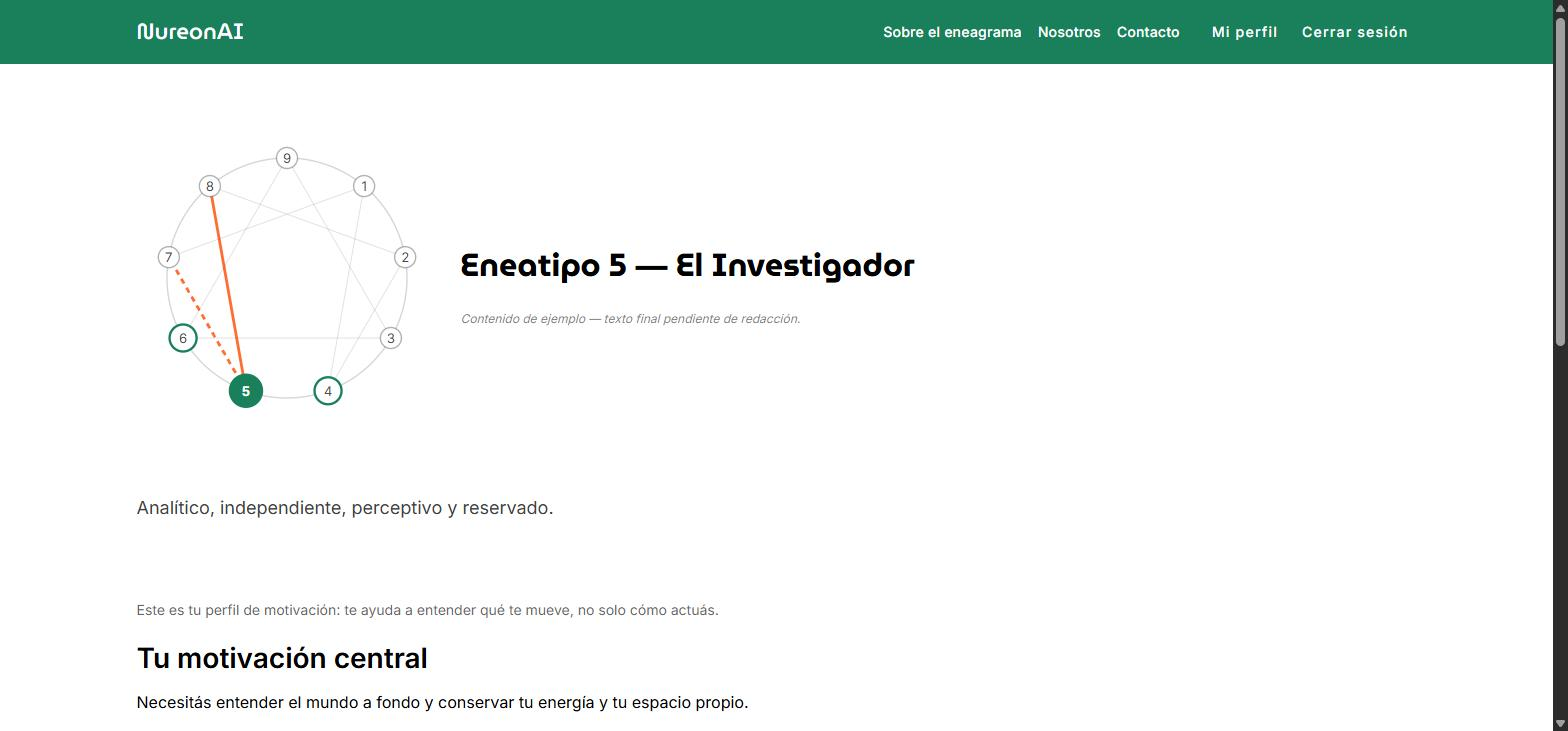
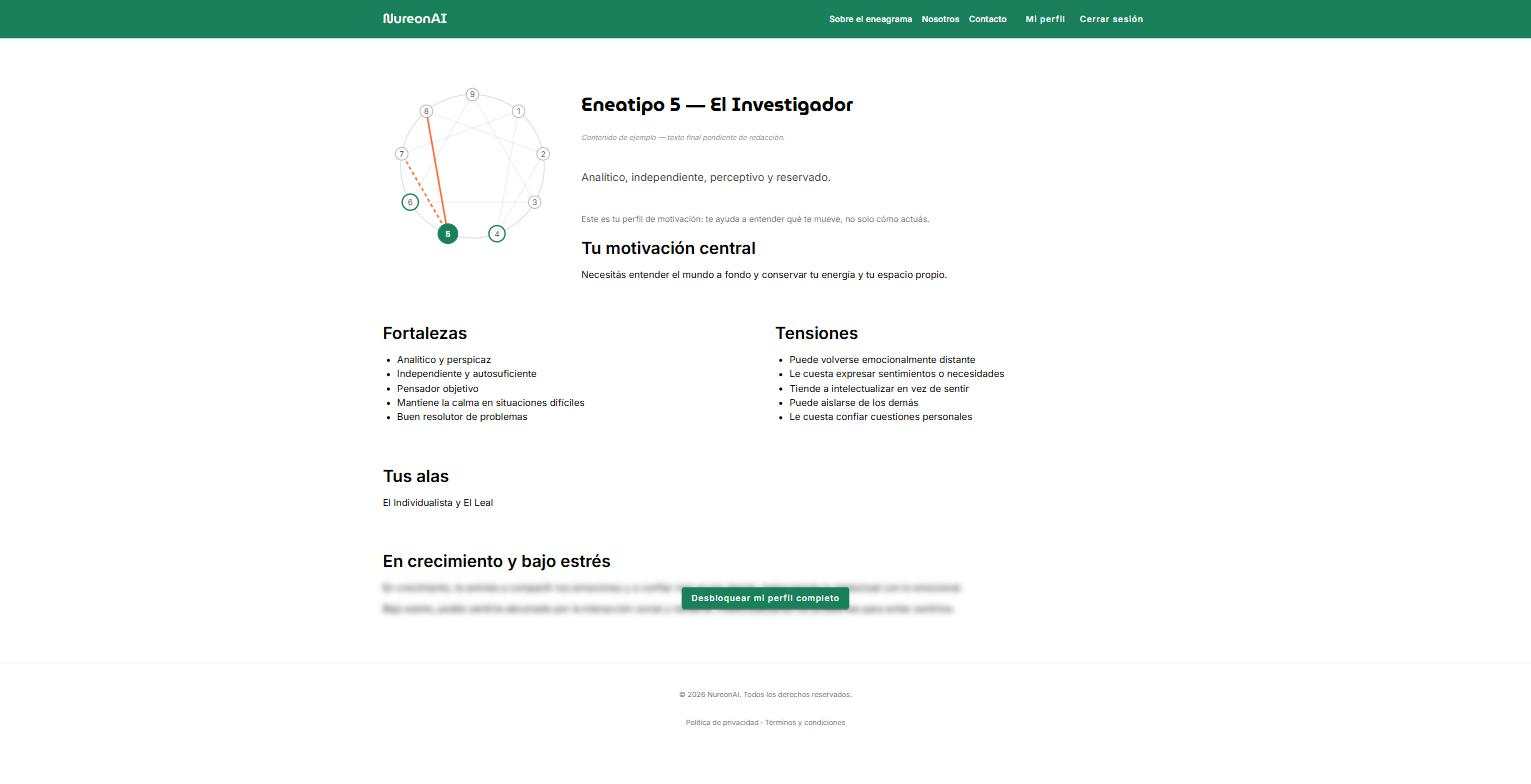
Update Stage 10 docs and recapture affected screenshots
mvp-status.md and click-budget.md now reflect what this stage closed;
browser-check.md documents the build:demo walkthrough. Recaptured 04/06
(desktop) for the new test/resultados layouts and added 10-13 for the
four screens that used to be placeholders. 05/07 (mobile) are still the
Stage 9 captures — Chrome DevTools' device toolbar stopped responding
reliably partway through this session, noted in browser-check.md.

diff --git a/frontend/nureon/docs/mvp-status.md b/frontend/nureon/docs/mvp-status.md
@@ -1,14 +1,18 @@
-# Qué está vivo (Etapa 9)
+# Qué está vivo (actualizado en Etapa 10)
 
 Estado real de cada pantalla al cierre del rediseño visual: qué pega contra `MockApiService`
 (datos en memoria + `localStorage` del navegador, nada persiste en un servidor) y qué contra un
-backend real. Ver `HttpApiService` (`core/services/http-api.service.ts`): **los catorce métodos
+backend real. Ver `HttpApiService` (`core/services/http-api.service.ts`): **los quince métodos
 de `ApiService` están 100% sin implementar** — cada uno tira
 `Error: <método>() is not implemented yet — backend integration is a later stage` a propósito.
 `environment.ts` (producción) tiene `useMockApi: false` apuntando a `https://api.nureon.ai`
 (no existe), así que **el build de producción de hoy no puede completar ningún flujo
 interactivo** — solo sirve para validar SSR/prerender de las rutas públicas estáticas
-(ver `browser-check.md`, punto 1). Todo lo que sigue corre contra `ng serve` + `MockApiService`.
+(ver `browser-check.md`).
+
+**Etapa 10 agrega `environment.demo.ts` (`npm run build:demo`)**: mismo build optimizado, pero
+`useMockApi: true`, así que sí completa el recorrido entero — es lo que se sube a S3 para mostrar
+el producto sin depender de un backend real ni de `ng serve`.
 
 ## Pantalla por pantalla
 
@@ -17,8 +21,10 @@ interactivo** — solo sirve para validar SSR/prerender de las rutas públicas e
 
 ### Registro (`/registro`) — CU001, RF01
 `AuthService.register()` → `MockApiService.register()`. Guarda el usuario en el estado mock y
-en `localStorage` (`nureon_mock_auth_user`) para sobrevivir un reload. **Real backend: 0%** —
-sin Cognito, sin validación de servidor, sin persistencia en RDS.
+en `localStorage` (`nureon_mock_auth_user`) para sobrevivir un reload. La confirmación manda
+directo a `/test` (Etapa 10 — antes mandaba a `/inicio`, lo que rompía el presupuesto de
+`docs/click-budget.md`; ver ese doc). **Real backend: 0%** — sin Cognito, sin validación de
+servidor, sin persistencia en RDS.
 
 ### Ingresar (`/ingresar`) — CU002, RF02, RNF09
 `AuthService.login()` → `MockApiService.login()`, misma persistencia que registro. Los botones
@@ -26,60 +32,109 @@ sin Cognito, sin validación de servidor, sin persistencia en RDS.
 propio HTML como `Ranura RNF09: dibujados pero inertes hasta que Cognito exista`. **Real backend:
 0%.**
 
-### `/inicio`
-Sigue siendo el placeholder de la Etapa 2 ("Ruta en construcción"). Nunca se conectó — el tramo
-`/inicio` → primera pregunta del test quedó pendiente desde `docs/click-budget.md` (Etapas 4/5) y
-sigue así. Hoy se llega al test navegando directo a `/test`, no hay CTA en `/inicio`.
+### `/inicio` — Etapa 10, RF03
+Ya no es el placeholder de la Etapa 2 — es el punto de partida real de la sesión. Lee
+`getLatestAttempt(userId)` y decide la acción primaria según el estado:
+
+- Sin intentos → "Iniciar test".
+- Intento en curso → "Retomar test" + progreso (`getQuestions`/`getResponses` para el conteo
+  respondidas/total) + "Empezar de nuevo" (crea un intento nuevo, que pasa a ser el "latest").
+- Con resultado → "Ver mi resultado" + "Hacer el test de nuevo".
+
+Todo contra `MockApiService`. **Real backend: 0%.**
 
 ### El test (`/test`) — CU003, RF03
 `createTestAttempt` / `getQuestions` / `submitResponse` / `completeTestAttempt` → todo
 `MockApiService`. Auto-advance, progreso, teclado y ARIA (`radiogroup`/`radio`) funcionan sobre
-datos mock. **Contenido de los ítems: placeholder explícito.** `assets/mock/questions.sample.json`
-trae su propio warning: *"CONTENIDO DE RELLENO. No son ítems del banco v1 ni de ningún instrumento
-real (...) Regenerar con --csv apenas esté disponible el CSV del banco v1."* El banco real de 200
+datos mock. Desde Etapa 10 el footer no se muestra en esta ruta (`AppComponent.showFooter$`) y la
+pregunta se centra verticalmente en vez de quedar pegada arriba con un hueco muerto abajo.
+
+**Contenido de los ítems: placeholder explícito.** `assets/mock/questions.sample.json` trae su
+propio warning: *"CONTENIDO DE RELLENO. No son ítems del banco v1 ni de ningún instrumento real
+(...) Regenerar con --csv apenas esté disponible el CSV del banco v1."* El banco real de 200
 ítems (`NureonAI Question Bank v1`) todavía no está cargado en el frontend. **Real backend: 0%,
-y además contenido real pendiente** (dos cosas distintas: la próxima etapa que conecte un backend
-real igual va a necesitar el CSV real para que el test tenga sentido).
+y además contenido real pendiente.**
 
 ### Resultados (`/resultados`, `/resultados/:attemptId`) — CU004, RF04, RF05, RF08
-`getResult` / `getAttempt` / `getAttemptHistory` → `MockApiService`. El diagrama de eneagrama,
-motivación, fortalezas/tensiones/alas se renderizan con contenido real **pero provisorio**:
+`getResult` / `getAttempt` / `getAttemptHistory` → `MockApiService`. Desde Etapa 10, el diagrama
+y el título/resumen/motivación comparten fila en desktop (antes el diagrama dejaba una columna
+vacía mientras el resto del contenido seguía abajo en una sola columna — ver
+`docs/screenshots/06-resultados-desktop.jpg` de Etapa 9 contra la versión actual).
+
+El contenido de motivación/fortalezas/tensiones/alas es real **pero provisorio**:
 `eneatype-content.ts` está marcado `isPlaceholder: true` en los 9 eneatipos, con este comentario
 en el propio archivo: *"PROVISIONAL — adaptado y traducido de `type_*.txt` (...) No es la
 redacción final del contenido de resultados."* Es decir, no es texto de relleno tipo lorem ipsum
 — es una traducción real de las fuentes de la tesis, pendiente de una redacción final en español.
-La UI marca esto explícitamente en pantalla con "Contenido de ejemplo — texto final pendiente de
+La UI lo marca explícitamente en pantalla con "Contenido de ejemplo — texto final pendiente de
 redacción."
 
 **Freemium (RF09/RF10):** el gate visual (blur + botón "Desbloquear mi perfil completo") es puro
 CSS condicionado por `tier` del intento — en el mock, todo intento nace con
-`tier: 'free_reduced'` hardcodeado, no hay forma de pasar a `paid_full` desde la UI. El botón
-"Desbloquear..." no tiene `(click)` — es decorativo. **Mercado Pago: 0% conectado**, ni SDK ni
-flujo de checkout.
+`tier: 'free_reduced'` hardcodeado, no hay forma de pasar a `paid_full` desde la UI. Desde
+Etapa 10, el botón abre `FreemiumInfoDialogComponent`: un panel honesto con los dos niveles
+(gratis/pago) y una nota explícita de que el flujo de pago está en desarrollo — no desbloquea
+nada ni simula un pago. **Mercado Pago: 0% conectado**, ni SDK ni flujo de checkout.
 
 ### Perfil (`/perfil`) — RF06, RF07, RF08
 `updateProfile` / `getAttemptHistory` / `submitFeedback` → `MockApiService`. Edición de datos,
 historial de intentos y el formulario de feedback (RF06) funcionan de punta a punta contra el
 mock, con estados de carga/error conectados (Etapa 8). **Real backend: 0%.**
 
+### Sobre el eneagrama (`/eneagrama`) — Etapa 10
+Contenido educativo estático: qué es el eneagrama, los 9 tipos (solo nombres — la copy
+descriptiva completa vive en `resultados/eneatype-content.ts` y es provisoria, así que esta
+página no depende de ella), y qué distingue a NureonAI. Nombra las cuatro familias de triadas
+(Centros de Inteligencia, Horneviano, Armónico, Relaciones Objetales) sin publicar qué ítem u
+opción corresponde a cada una — es la clave de corrección del instrumento. Sin llamadas a API.
+
+### Nosotros (`/nosotros`) — Etapa 10
+Borrador. El párrafo sobre el proyecto está escrito; la sección "Autores" es un placeholder
+explícito en pantalla (`[Nombre del autor/a — confirmar]`) — no se inventaron datos biográficos.
+**Pendiente: que confirmes nombres, roles y una bio breve antes de sacar el aviso de borrador.**
+
+### Contacto (`/contacto`) — Etapa 10
+Formulario simple (nombre, email, mensaje) → `MockApiService.submitContactMessage()`, agregado en
+esta etapa junto con el resto de `ApiService` (no existía antes; no hay tabla `contact_messages`
+en el PDR — es una conveniencia del mock, igual que `submitFeedback`). Mismos estados de
+carga/error que el resto de los formularios. **Real backend: 0%** — nadie recibe estos mensajes
+todavía.
+
 ### Styleguide (`/styleguide`)
-Ruta dev-only (`!environment.production`), no existe en el build de producción ni en las rutas
-prerenderizadas — confirmado en `app-routing.module.ts`. Es la lámina de sistema de diseño usada
-para el material visual de esta etapa, no una pantalla de producto.
+Ruta dev-only (`!environment.production`), no existe en el build de producción ni en el build
+demo ni en las rutas prerenderizadas — confirmado en `app-routing.module.ts`. Es la lámina de
+sistema de diseño usada para el material visual, no una pantalla de producto.
+
+## Presupuesto de clicks (`docs/click-budget.md`)
+
+Cerrado en esta etapa:
+
+- **Landing → primera pregunta (usuario nuevo), ≤ 3 clicks**: "Empezar gratis" (1) → "Crear
+  cuenta" (2) → "Empezar el test" en la confirmación (3, manda directo a `/test`, ya no a
+  `/inicio`). **Cumple, justo en el límite.**
+- **Login → primera pregunta, ≤ 2 clicks post-ingreso**: login manda a `/inicio` (0 extra) →
+  "Iniciar test"/"Retomar test" (1). **Cumple.**
+- **Responder el test completo, 1 click por ítem**: sin cambios, ya cumplía.
+- **Fin del test → resultado, 1 click**: sin cambios, ya cumplía.
+- **Entrar a la app → ver resultado anterior, 1 click**: `/inicio` con estado "completado" →
+  "Ver mi resultado" (1). **Cumple** — antes no había forma de auditar esto porque `/inicio` no
+  existía.
 
 ## Resumen para la defensa
 
 | Área | Estado |
 |---|---|
 | UI / diseño / accesibilidad / responsive | Completo (Etapas 1-8) |
+| Recorrido de punta a punta sin placeholders | Completo (Etapa 10) |
 | Lógica de negocio de cada pantalla | Completa, corriendo contra `MockApiService` |
+| Build desplegable sin backend (`build:demo`) | Completo (Etapa 10) |
 | Backend real (Flask/RDS) | 0% — `HttpApiService` es un scaffold vacío que tira error a propósito |
 | Auth real (Cognito, incl. Google/Facebook) | 0% — ranura visual únicamente |
-| Pagos reales (Mercado Pago, RF09/10) | 0% — gate freemium es solo CSS sobre un flag hardcodeado |
+| Pagos reales (Mercado Pago, RF09/10) | 0% — el panel freemium es honesto sobre esto |
 | Banco de preguntas real (200 ítems) | 0% — el test usa `questions.sample.json`, contenido de relleno declarado |
 | Contenido descriptivo de eneatipos | Traducido de las fuentes de la tesis, pendiente de redacción final (no relleno) |
-| `/inicio` | Placeholder de Etapa 2, sin cerrar desde entonces |
+| Bios de autores en `/nosotros` | Pendiente de que las confirmes — marcado en pantalla |
 
-`redesign/frontend` queda listo para mergear a `master` en lo visual/UX; lo que sigue después del
+`redesign/frontend` queda listo para mergear a `master` en lo visual/UX. Lo que sigue después del
 merge es reemplazar `HttpApiService` por una implementación real contra el backend que responda
-los contratos de la Etapa 2, más Cognito y Mercado Pago.
+los contratos de la Etapa 2, más Cognito y Mercado Pago — y cargar el banco de preguntas real.

diff --git a/frontend/nureon/docs/browser-check.md b/frontend/nureon/docs/browser-check.md
@@ -73,3 +73,41 @@ se recorrieron a mano siguiendo el mismo guion.
   ("Enunciado de ejemplo…"), no el banco real — ver `mvp-status.md`. No afecta la comparación
   entre navegadores (todos renderizan el mismo relleno igual), pero si se recapturan estas
   pantallas más adelante con el banco real, conviene repetir esta verificación.
+
+## Etapa 10 — recorrido de punta a punta contra `build:demo`
+
+Objetivo distinto al de arriba: no cross-browser, sino confirmar que el build **desplegable**
+(`npm run build:demo`, servido como estático + SSR, sin `ng serve`) completa el recorrido entero
+sin tocar ninguna pantalla en construcción — ver `docs/mvp-status.md` para el detalle de qué
+cerró esta etapa (`/inicio` real, `/eneagrama`, `/nosotros`, `/contacto`).
+
+Verificado en Chrome contra `localhost:4400` sirviendo `dist/nureon` compilado con
+`--configuration demo`:
+
+- **Cuenta demo preseedeada**: `demo@nureon.ai` / `Demo1234` entra directo a `/inicio` con un
+  resultado ya completo ("Ya tenés un resultado esperándote") — no hace falta responder 40
+  preguntas para ver `/resultados`.
+- **Cuenta nueva de punta a punta**: `/` → "Empezar gratis" → registro → confirmación
+  ("Empezar el test", ya no "Ir a mi cuenta") → test completo (40 ítems, teclado) →
+  "¡Listo! Terminaste el test" → resultado. Sin pasar por ningún placeholder en ningún punto.
+- **Los tres links del header** (`/eneagrama`, `/nosotros`, `/contacto`) llevan a contenido real,
+  no al placeholder de Etapa 2.
+- **Freemium**: "Desbloquear mi perfil completo" abre el panel de niveles (`Escape`, click en
+  backdrop y botón "Cerrar" lo cierran; el foco vuelve al botón que lo abrió). No desbloquea nada
+  ni simula un pago — dice explícitamente que el flujo de pago está en desarrollo.
+- **Contacto**: formulario completo contra `MockApiService.submitContactMessage` → confirmación
+  en pantalla.
+- **`npm run build`** (producción normal) sigue compilando sin warnings de budget después de los
+  cambios de esta etapa.
+
+### Pendiente de esta etapa
+
+- Las capturas mobile `05-test-item-mobile.jpg` y `07-resultados-mobile.jpg` en
+  `docs/screenshots/` **son las de Etapa 9** — el device toolbar de Chrome DevTools no volvió a
+  responder de forma confiable en esta sesión (varios intentos, incluso en tabs nuevos) para
+  recapturarlas con el footer oculto y el layout de resultados nuevo. Las versiones desktop
+  (`04`, `06`) sí están actualizadas. Quedan desactualizadas hasta la próxima sesión con la
+  herramienta funcionando, o hasta que alguien las saque a mano.
+- No se repitió la pasada de Firefox/Edge/Brave para esta etapa — el objetivo acá era el build
+  demo de punta a punta, no cross-browser otra vez. Si hace falta, se puede repetir el mismo
+  guion (cuenta demo → `/inicio` → resto del recorrido) en los otros tres navegadores.
